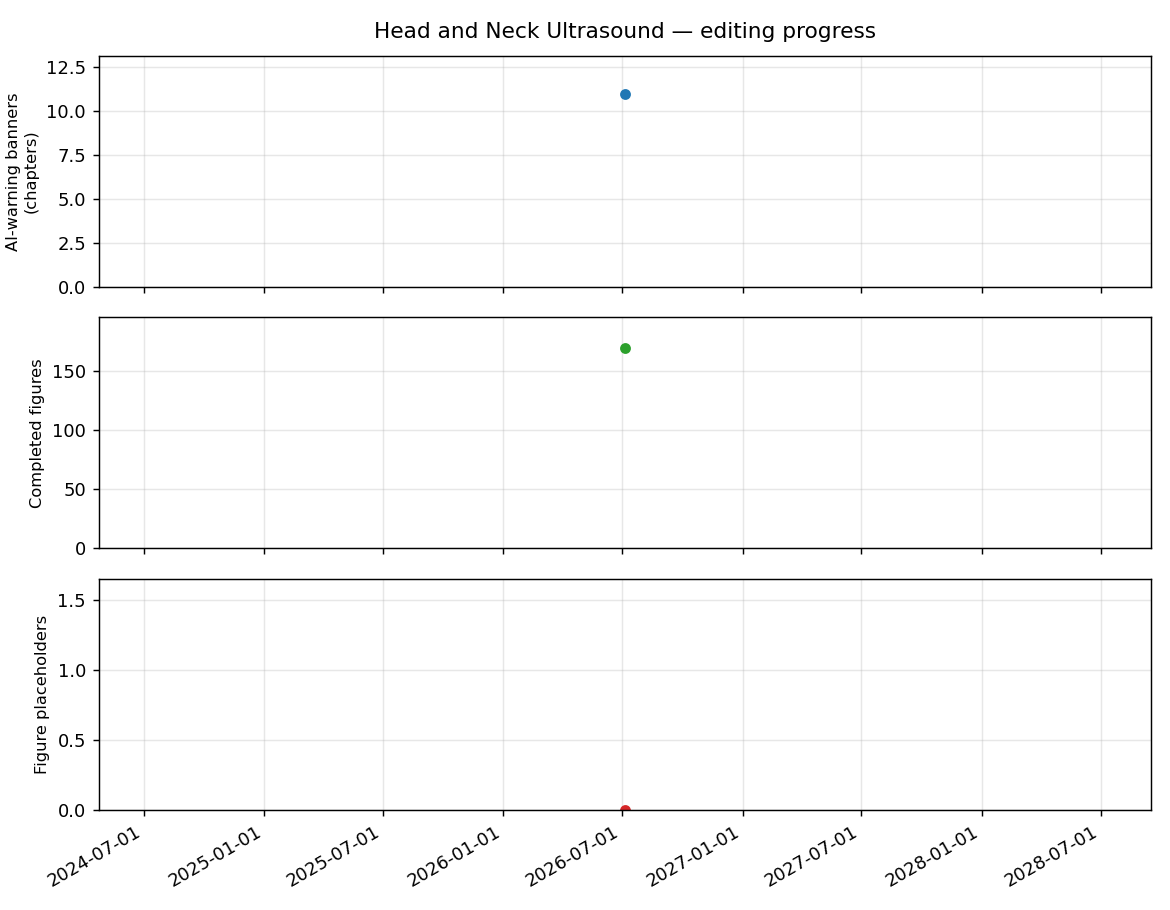
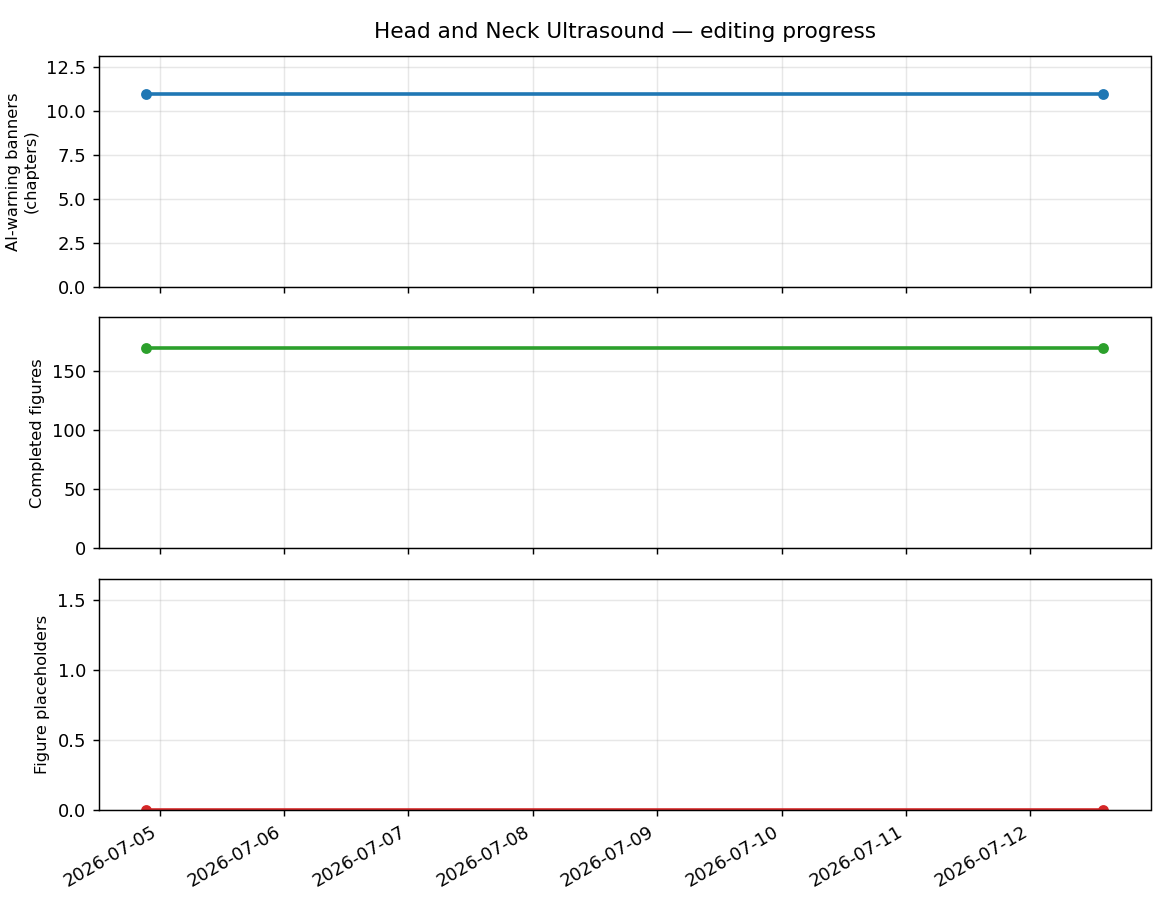
Cache-bust Progress plot image URL
Append a data-derived ?v= token so browsers/CDNs refetch the plot when
counts change.

diff --git a/docs/progress.md b/docs/progress.md
@@ -8,9 +8,9 @@ nav_order: 999
 
 _Auto-generated from the publication git history of the Head and Neck Ultrasound site. This page tracks editing progress and is **not** clinical content._
 
-Generated 2026-07-12 14:55 · 1 commit(s) tracked (2026-07-04 → 2026-07-04).
+Generated 2026-07-12 16:13 · 2 commit(s) tracked (2026-07-04 → 2026-07-12).
 
-![Head and Neck Ultrasound editing progress over time]({{ '/docs/img/progress_hnus.png' | relative_url }})
+![Head and Neck Ultrasound editing progress over time]({{ '/docs/img/progress_hnus.png' | relative_url }}?v=2-11-169-0)
 
 ## Latest counts
 